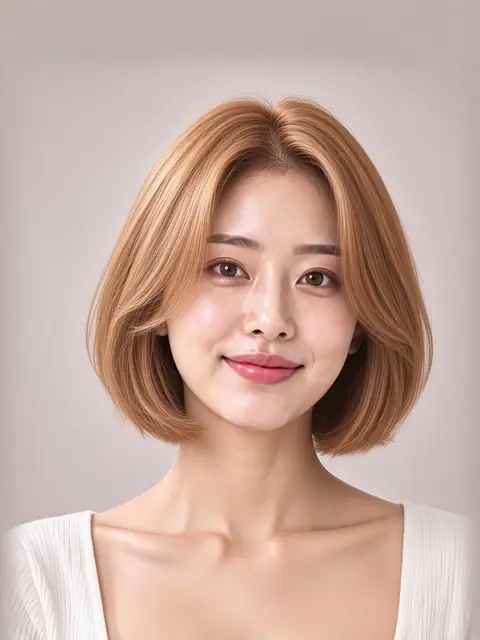
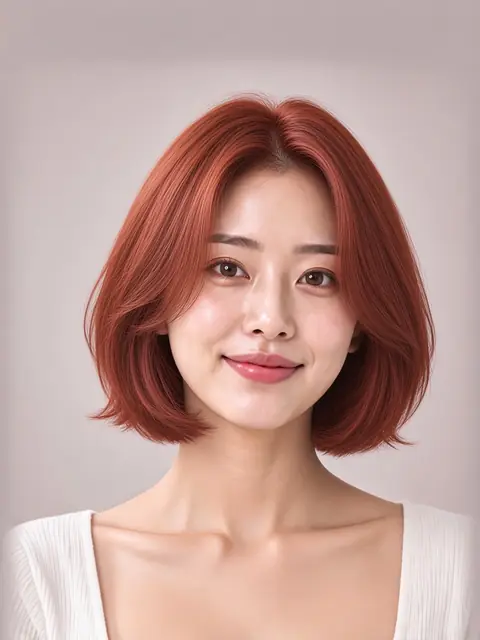
catalog: per-style color images checkpoint (99/1116), no style snap when color exists, progress tool

Changed region(s): [[0.1562, 0.125, 0.9062, 0.7188], [0.6562, 0.5938, 0.6875, 0.625]]

diff --git a/catalog/img/manifest.js b/catalog/img/manifest.js
@@ -1,1 +1,1 @@
-window.IMAGES=["f-long-hime-full-straight-c-ad-amethyst","f-long-hime-full-straight-c-ad-sapphire","f-long-hime-full-straight-c-ad-silver","f-long-hime-full-straight-c-ad-stopaz","f-long-hime-full-straight-c-il-57","f-long-hime-full-straight-c-il-743","f-long-hime-full-straight-c-il-781","f-long-hime-full-straight-c-mj-58","f-long-hime-full-straight-c-mj-634","f-long-hime-full-straight","f-long-hush-none-ccurl","f-long-hush-none-straight","f-long-hush-none-wave","f-long-hush-seethrough-ccurl","f-long-hush-seethrough-straight","f-long-hush-seethrough-wave","f-long-hush-side-ccurl","f-long-hush-side-straight","f-long-hush-side-wave","f-long-layered-full-ccurl","f-long-layered-full-hippie","f-long-layered-full-straight","f-long-layered-full-wave","f-long-layered-none-ccurl","f-long-layered-none-hippie","f-long-layered-none-straight","f-long-layered-none-wave","f-long-layered-seethrough-ccurl","f-long-layered-seethrough-hippie","f-long-layered-seethrough-straight","f-long-layered-seethrough-wave","f-long-layered-side-ccurl","f-long-layered-side-hippie","f-long-layered-side-straight","f-long-layered-side-wave","f-long-natural-full-ccurl","f-long-natural-full-straight","f-long-natural-full-wave","f-long-natural-none-ccurl","f-long-natural-none-straight-c-ad-amethyst","f-long-natural-none-straight-c-ad-sapphire","f-long-natural-none-straight-c-ad-silver","f-long-natural-none-straight-c-ad-stopaz","f-long-natural-none-straight-c-il-57","f-long-natural-none-straight-c-il-743","f-long-natural-none-straight-c-il-781","f-long-natural-none-straight-c-mj-58","f-long-natural-none-straight-c-mj-634","f-long-natural-none-straight-part-center","f-long-natural-none-straight-t-balayage","f-long-natural-none-straight-t-highlight","f-long-natural-none-straight-vol","f-long-natural-none-straight","f-long-natural-none-wave","f-long-natural-seethrough-ccurl","f-long-natural-seethrough-straight","f-long-natural-seethrough-wave","f-long-natural-side-ccurl","f-long-natural-side-straight","f-long-natural-side-wave","f-medium-hime-full-straight","f-medium-hush-none-ccurl","f-medium-hush-none-straight","f-medium-hush-none-wave","f-medium-hush-seethrough-ccurl","f-medium-hush-seethrough-straight","f-medium-hush-seethrough-wave","f-medium-hush-side-ccurl","f-medium-hush-side-straight","f-medium-hush-side-wave","f-medium-layered-full-ccurl","f-medium-layered-full-hippie","f-medium-layered-full-straight","f-medium-layered-full-wave","f-medium-layered-none-ccurl","f-medium-layered-none-hippie","f-medium-layered-none-straight","f-medium-layered-none-wave","f-medium-layered-seethrough-ccurl","f-medium-layered-seethrough-hippie","f-medium-layered-seethrough-straight","f-medium-layered-seethrough-wave","f-medium-layered-side-ccurl","f-medium-layered-side-hippie","f-medium-layered-side-straight","f-medium-layered-side-wave","f-medium-natural-full-ccurl","f-medium-natural-full-straight","f-medium-natural-full-wave","f-medium-natural-none-ccurl","f-medium-natural-none-straight-c-ad-amethyst","f-medium-natural-none-straight-c-ad-sapphire","f-medium-natural-none-straight-c-ad-silver","f-medium-natural-none-straight-c-ad-stopaz","f-medium-natural-none-straight-c-il-57","f-medium-natural-none-straight-c-il-743","f-medium-natural-none-straight-c-il-781","f-medium-natural-none-straight-c-mj-58","f-medium-natural-none-straight-c-mj-634","f-medium-natural-none-straight-part-center","f-medium-natural-none-straight-t-balayage","f-medium-natural-none-straight-t-highlight","f-medium-natural-none-straight-vol","f-medium-natural-none-straight","f-medium-natural-none-wave","f-medium-natural-seethrough-ccurl","f-medium-natural-seethrough-straight","f-medium-natural-seethrough-wave","f-medium-natural-side-ccurl","f-medium-natural-side-straight","f-medium-natural-side-wave","f-short-layered-full-ccurl","f-short-layered-full-straight","f-short-layered-full-wave","f-short-layered-none-ccurl","f-short-layered-none-straight","f-short-layered-none-wave","f-short-layered-seethrough-ccurl","f-short-layered-seethrough-straight","f-short-layered-seethrough-wave","f-short-layered-side-ccurl","f-short-layered-side-straight","f-short-layered-side-wave","f-short-natural-full-ccurl","f-short-natural-full-straight","f-short-natural-full-wave","f-short-natural-none-ccurl-c-ad-amethyst","f-short-natural-none-ccurl-c-ad-sapphire","f-short-natural-none-ccurl-c-ad-silver","f-short-natural-none-ccurl-c-ad-stopaz","f-short-natural-none-ccurl-c-il-57","f-short-natural-none-ccurl-c-il-743","f-short-natural-none-ccurl-c-il-781","f-short-natural-none-ccurl-c-mj-58","f-short-natural-none-ccurl-c-mj-634","f-short-natural-none-ccurl","f-short-natural-none-straight-c-ad-amethyst","f-short-natural-none-straight-c-ad-sapphire","f-short-natural-none-straight-c-ad-silver","f-short-natural-none-straight-c-ad-stopaz","f-short-natural-none-straight-c-il-57","f-short-natural-none-straight-c-il-743","f-short-natural-none-straight-c-il-781","f-short-natural-none-straight-c-mj-58","f-short-natural-none-straight-c-mj-634","f-short-natural-none-straight-part-center","f-short-natural-none-straight-t-balayage","f-short-natural-none-straight-t-highlight","f-short-natural-none-straight-vol","f-short-natural-none-straight","f-short-natural-none-wave-c-ad-amethyst","f-short-natural-none-wave-c-ad-sapphire","f-short-natural-none-wave-c-ad-silver","f-short-natural-none-wave-c-ad-stopaz","f-short-natural-none-wave-c-il-57","f-short-natural-none-wave-c-il-743","f-short-natural-none-wave-c-il-781","f-short-natural-none-wave-c-mj-58","f-short-natural-none-wave-c-mj-634","f-short-natural-none-wave","f-short-natural-seethrough-ccurl","f-short-natural-seethrough-straight","f-short-natural-seethrough-wave","f-short-natural-side-ccurl","f-short-natural-side-straight","f-short-natural-side-wave","m-medium-natural-down-downperm","m-medium-natural-down-shadow","m-medium-natural-down-straight-c-ad-amethyst","m-medium-natural-down-straight-c-ad-sapphire","m-medium-natural-down-straight-c-ad-silver","m-medium-natural-down-straight-c-ad-stopaz","m-medium-natural-down-straight-c-il-57","m-medium-natural-down-straight-c-il-743","m-medium-natural-down-straight-c-il-781","m-medium-natural-down-straight-c-mj-58","m-medium-natural-down-straight-c-mj-634","m-medium-natural-down-straight-t-highlight","m-medium-natural-down-straight-vol","m-medium-natural-down-straight","m-medium-natural-up-downperm","m-medium-natural-up-shadow","m-medium-natural-up-straight-part-side","m-medium-natural-up-straight","m-medium-wolf-down-downperm","m-medium-wolf-down-shadow","m-medium-wolf-down-straight","m-medium-wolf-up-downperm","m-medium-wolf-up-shadow","m-medium-wolf-up-straight","m-short-natural-down-downperm","m-short-natural-down-shadow","m-short-natural-down-straight-c-ad-amethyst","m-short-natural-down-straight-c-ad-sapphire","m-short-natural-down-straight-c-ad-silver","m-short-natural-down-straight-c-ad-stopaz","m-short-natural-down-straight-c-il-57","m-short-natural-down-straight-c-il-743","m-short-natural-down-straight-c-il-781","m-short-natural-down-straight-c-mj-58","m-short-natural-down-straight-c-mj-634","m-short-natural-down-straight-t-highlight","m-short-natural-down-straight-vol","m-short-natural-down-straight","m-short-natural-up-downperm","m-short-natural-up-shadow","m-short-natural-up-straight-part-center","m-short-natural-up-straight","m-short-twoblock-down-downperm","m-short-twoblock-down-shadow","m-short-twoblock-down-straight","m-short-twoblock-up-downperm","m-short-twoblock-up-shadow","m-short-twoblock-up-straight"];
+window.IMAGES=["f-long-hime-full-straight-c-ad-amethyst","f-long-hime-full-straight-c-ad-sapphire","f-long-hime-full-straight-c-ad-silver","f-long-hime-full-straight-c-ad-stopaz","f-long-hime-full-straight-c-il-57","f-long-hime-full-straight-c-il-743","f-long-hime-full-straight-c-il-781","f-long-hime-full-straight-c-mj-58","f-long-hime-full-straight-c-mj-634","f-long-hime-full-straight","f-long-hush-none-ccurl","f-long-hush-none-straight","f-long-hush-none-wave","f-long-hush-seethrough-ccurl","f-long-hush-seethrough-straight","f-long-hush-seethrough-wave","f-long-hush-side-ccurl","f-long-hush-side-straight","f-long-hush-side-wave","f-long-layered-full-ccurl","f-long-layered-full-hippie","f-long-layered-full-straight","f-long-layered-full-wave","f-long-layered-none-ccurl","f-long-layered-none-hippie","f-long-layered-none-straight","f-long-layered-none-wave","f-long-layered-seethrough-ccurl","f-long-layered-seethrough-hippie","f-long-layered-seethrough-straight","f-long-layered-seethrough-wave","f-long-layered-side-ccurl","f-long-layered-side-hippie","f-long-layered-side-straight","f-long-layered-side-wave","f-long-natural-full-ccurl","f-long-natural-full-straight","f-long-natural-full-wave","f-long-natural-none-ccurl","f-long-natural-none-straight-c-ad-amethyst","f-long-natural-none-straight-c-ad-sapphire","f-long-natural-none-straight-c-ad-silver","f-long-natural-none-straight-c-ad-stopaz","f-long-natural-none-straight-c-il-57","f-long-natural-none-straight-c-il-743","f-long-natural-none-straight-c-il-781","f-long-natural-none-straight-c-mj-58","f-long-natural-none-straight-c-mj-634","f-long-natural-none-straight-part-center","f-long-natural-none-straight-t-balayage","f-long-natural-none-straight-t-highlight","f-long-natural-none-straight-vol","f-long-natural-none-straight","f-long-natural-none-wave","f-long-natural-seethrough-ccurl","f-long-natural-seethrough-straight","f-long-natural-seethrough-wave","f-long-natural-side-ccurl","f-long-natural-side-straight","f-long-natural-side-wave","f-medium-hime-full-straight","f-medium-hush-none-ccurl","f-medium-hush-none-straight","f-medium-hush-none-wave","f-medium-hush-seethrough-ccurl","f-medium-hush-seethrough-straight","f-medium-hush-seethrough-wave","f-medium-hush-side-ccurl","f-medium-hush-side-straight","f-medium-hush-side-wave","f-medium-layered-full-ccurl","f-medium-layered-full-hippie","f-medium-layered-full-straight","f-medium-layered-full-wave","f-medium-layered-none-ccurl","f-medium-layered-none-hippie","f-medium-layered-none-straight","f-medium-layered-none-wave","f-medium-layered-seethrough-ccurl","f-medium-layered-seethrough-hippie","f-medium-layered-seethrough-straight","f-medium-layered-seethrough-wave","f-medium-layered-side-ccurl","f-medium-layered-side-hippie","f-medium-layered-side-straight","f-medium-layered-side-wave","f-medium-natural-full-ccurl","f-medium-natural-full-straight","f-medium-natural-full-wave","f-medium-natural-none-ccurl","f-medium-natural-none-straight-c-ad-amethyst","f-medium-natural-none-straight-c-ad-sapphire","f-medium-natural-none-straight-c-ad-silver","f-medium-natural-none-straight-c-ad-stopaz","f-medium-natural-none-straight-c-il-57","f-medium-natural-none-straight-c-il-743","f-medium-natural-none-straight-c-il-781","f-medium-natural-none-straight-c-mj-58","f-medium-natural-none-straight-c-mj-634","f-medium-natural-none-straight-part-center","f-medium-natural-none-straight-t-balayage","f-medium-natural-none-straight-t-highlight","f-medium-natural-none-straight-vol","f-medium-natural-none-straight","f-medium-natural-none-wave","f-medium-natural-seethrough-ccurl","f-medium-natural-seethrough-straight","f-medium-natural-seethrough-wave","f-medium-natural-side-ccurl","f-medium-natural-side-straight","f-medium-natural-side-wave","f-short-layered-full-ccurl","f-short-layered-full-straight","f-short-layered-full-wave","f-short-layered-none-ccurl","f-short-layered-none-straight","f-short-layered-none-wave","f-short-layered-seethrough-ccurl","f-short-layered-seethrough-straight","f-short-layered-seethrough-wave","f-short-layered-side-ccurl","f-short-layered-side-straight","f-short-layered-side-wave","f-short-natural-full-ccurl","f-short-natural-full-straight","f-short-natural-full-wave","f-short-natural-none-ccurl-c-ad-amethyst","f-short-natural-none-ccurl-c-ad-sapphire","f-short-natural-none-ccurl-c-ad-silver","f-short-natural-none-ccurl-c-ad-stopaz","f-short-natural-none-ccurl-c-il-57","f-short-natural-none-ccurl-c-il-743","f-short-natural-none-ccurl-c-il-781","f-short-natural-none-ccurl-c-mj-58","f-short-natural-none-ccurl-c-mj-634","f-short-natural-none-ccurl","f-short-natural-none-straight-c-ad-amethyst","f-short-natural-none-straight-c-ad-sapphire","f-short-natural-none-straight-c-ad-silver","f-short-natural-none-straight-c-ad-stopaz","f-short-natural-none-straight-c-il-57","f-short-natural-none-straight-c-il-743","f-short-natural-none-straight-c-il-781","f-short-natural-none-straight-c-mj-58","f-short-natural-none-straight-c-mj-634","f-short-natural-none-straight-part-center","f-short-natural-none-straight-t-balayage","f-short-natural-none-straight-t-highlight","f-short-natural-none-straight-vol","f-short-natural-none-straight","f-short-natural-none-wave-c-ad-amethyst","f-short-natural-none-wave-c-ad-sapphire","f-short-natural-none-wave-c-ad-silver","f-short-natural-none-wave-c-ad-stopaz","f-short-natural-none-wave-c-il-57","f-short-natural-none-wave-c-il-743","f-short-natural-none-wave-c-il-781","f-short-natural-none-wave-c-mj-58","f-short-natural-none-wave-c-mj-634","f-short-natural-none-wave","f-short-natural-seethrough-ccurl-c-ad-amethyst","f-short-natural-seethrough-ccurl-c-ad-sapphire","f-short-natural-seethrough-ccurl-c-ad-silver","f-short-natural-seethrough-ccurl-c-ad-stopaz","f-short-natural-seethrough-ccurl-c-il-57","f-short-natural-seethrough-ccurl-c-il-743","f-short-natural-seethrough-ccurl-c-il-781","f-short-natural-seethrough-ccurl-c-mj-58","f-short-natural-seethrough-ccurl-c-mj-634","f-short-natural-seethrough-ccurl","f-short-natural-seethrough-straight-c-ad-amethyst","f-short-natural-seethrough-straight-c-ad-sapphire","f-short-natural-seethrough-straight-c-ad-silver","f-short-natural-seethrough-straight-c-ad-stopaz","f-short-natural-seethrough-straight-c-il-57","f-short-natural-seethrough-straight-c-il-743","f-short-natural-seethrough-straight-c-il-781","f-short-natural-seethrough-straight-c-mj-58","f-short-natural-seethrough-straight-c-mj-634","f-short-natural-seethrough-straight","f-short-natural-seethrough-wave-c-ad-amethyst","f-short-natural-seethrough-wave-c-ad-sapphire","f-short-natural-seethrough-wave-c-ad-silver","f-short-natural-seethrough-wave-c-ad-stopaz","f-short-natural-seethrough-wave-c-il-57","f-short-natural-seethrough-wave-c-il-743","f-short-natural-seethrough-wave-c-il-781","f-short-natural-seethrough-wave-c-mj-58","f-short-natural-seethrough-wave-c-mj-634","f-short-natural-seethrough-wave","f-short-natural-side-ccurl","f-short-natural-side-straight","f-short-natural-side-wave","m-medium-natural-down-downperm","m-medium-natural-down-shadow","m-medium-natural-down-straight-c-ad-amethyst","m-medium-natural-down-straight-c-ad-sapphire","m-medium-natural-down-straight-c-ad-silver","m-medium-natural-down-straight-c-ad-stopaz","m-medium-natural-down-straight-c-il-57","m-medium-natural-down-straight-c-il-743","m-medium-natural-down-straight-c-il-781","m-medium-natural-down-straight-c-mj-58","m-medium-natural-down-straight-c-mj-634","m-medium-natural-down-straight-t-highlight","m-medium-natural-down-straight-vol","m-medium-natural-down-straight","m-medium-natural-up-downperm","m-medium-natural-up-shadow","m-medium-natural-up-straight-part-side","m-medium-natural-up-straight","m-medium-wolf-down-downperm","m-medium-wolf-down-shadow","m-medium-wolf-down-straight","m-medium-wolf-up-downperm","m-medium-wolf-up-shadow","m-medium-wolf-up-straight","m-short-natural-down-downperm","m-short-natural-down-shadow","m-short-natural-down-straight-c-ad-amethyst","m-short-natural-down-straight-c-ad-sapphire","m-short-natural-down-straight-c-ad-silver","m-short-natural-down-straight-c-ad-stopaz","m-short-natural-down-straight-c-il-57","m-short-natural-down-straight-c-il-743","m-short-natural-down-straight-c-il-781","m-short-natural-down-straight-c-mj-58","m-short-natural-down-straight-c-mj-634","m-short-natural-down-straight-t-highlight","m-short-natural-down-straight-vol","m-short-natural-down-straight","m-short-natural-up-downperm","m-short-natural-up-shadow","m-short-natural-up-straight-part-center","m-short-natural-up-straight","m-short-twoblock-down-downperm","m-short-twoblock-down-shadow","m-short-twoblock-down-straight","m-short-twoblock-up-downperm","m-short-twoblock-up-shadow","m-short-twoblock-up-straight"];

diff --git a/catalog/tools/color_progress.py b/catalog/tools/color_progress.py
@@ -1,0 +1,11 @@
+#!/usr/bin/env python3
+"""Print color-image coverage: which style keys have all 9 shades. Usage: python color_progress.py <catalog_dir>"""
+import sys, re, json, os
+cat = sys.argv[1]
+names = set(json.loads(open(os.path.join(cat, 'img/manifest.js')).read().split('=', 1)[1].rstrip(';\n')))
+styles = re.findall(r"'([fm]-[a-z]+-[a-z]+-[a-z]+-[a-z]+)'", re.search(r"function STYLE_KEYS\(\) \{ return \[(.*?)\]", open(os.path.join(cat, 'data.js')).read(), re.S).group(1))
+shades = ['ad-stopaz','ad-sapphire','ad-silver','ad-amethyst','il-781','il-57','il-743','mj-58','mj-634']
+done = sum(f'{s}-c-{c}' in names for s in styles for c in shades)
+full = [s for s in styles if all(f'{s}-c-{c}' in names for c in shades)]
+print(f'color images {done}/{len(styles)*len(shades)}; styles fully colored {len(full)}/{len(styles)}')
+print('remaining:', ' '.join(s for s in styles if s not in full))

diff --git a/README.md b/README.md
@@ -64,3 +64,8 @@ jhair/
 
 ## 📄 라이선스
 Copyright © 2024 J.Hairshop & Let's Hair by pyw31337. All Rights Reserved.
+
+## v3.1 — 스타일별 실사 염색 이미지 (진행 중 체크포인트)
+- 목표: 124 스타일 × 공식 9색 = 1,116장. **현재 99/1,116장, 11/124 스타일 완료.** `python3 catalog/tools/color_progress.py catalog`로 현황/남은 목록 확인.
+- 해당 스타일에 염색 이미지가 있으면 컬러 선택 시 컷·앞머리·컬이 그대로 유지됨(스타일 자동 보정 없음). 아직 없는 스타일은 가장 가까운 컬러 이미지로 보정(토스트 안내).
+- 이미지: WebP 480×640(q72) + 썸네일 150×200(q60), 칩 썸네일 lazy loading, hover/idle 시 인접 이미지 preload. 평균 약 21KB/장(썸네일 포함), 전체 완성 시 약 27MB 예상.
